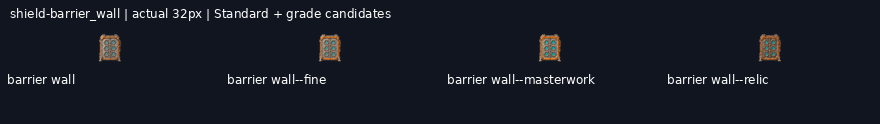
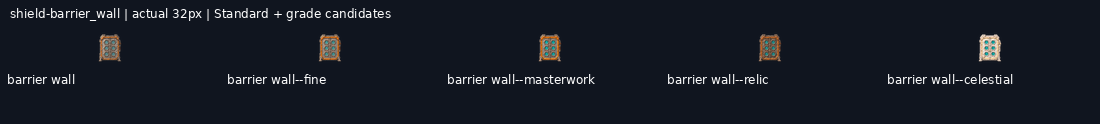
Deliver shield-barrier_wall--celestial review candidate

diff --git a/art/_archive/gear/2026-11-20-reset-continuation/HANDOFF.md b/art/_archive/gear/2026-11-20-reset-continuation/HANDOFF.md
@@ -1,13 +1,13 @@
 # Reset continuation progress
 
-Branch: `art/2026-11-20-reset-continuation`. New deliveries: 73/94.
+Branch: `art/2026-11-20-reset-continuation`. New deliveries: 74/94.
 
 Shared coordination: https://github.com/leonpentastorm/Project-Heaven-Cry/issues/3 . Read START-HERE.md before extending this queue.
 
 All new entries remain review-candidate; production_approved:false and implementation_ready:false. Exact-outline review remains pending.
 
-Ready jobs: shield-barrier_wall--celestial.
+Ready jobs: .
 
-Pending jobs: weapon-hellraiser_rotary--celestial, weapon-purifier_flamer--masterwork, weapon-purifier_flamer--relic, weapon-purifier_flamer--celestial, weapon-dock_cutter--masterwork, weapon-dock_cutter--relic, weapon-dock_cutter--celestial, weapon-broadback_sabre--relic, weapon-broadback_sabre--celestial, weapon-short_draw--fine, weapon-short_draw--masterwork, weapon-short_draw--relic, weapon-short_draw--celestial, weapon-long_draw--fine, weapon-long_draw--masterwork, weapon-long_draw--relic, weapon-long_draw--celestial, weapon-kemizuchi_side_sword--masterwork, weapon-kemizuchi_side_sword--relic, weapon-kemizuchi_side_sword--celestial, shield-barrier_wall--celestial.
+Pending jobs: weapon-hellraiser_rotary--celestial, weapon-purifier_flamer--masterwork, weapon-purifier_flamer--relic, weapon-purifier_flamer--celestial, weapon-dock_cutter--masterwork, weapon-dock_cutter--relic, weapon-dock_cutter--celestial, weapon-broadback_sabre--relic, weapon-broadback_sabre--celestial, weapon-short_draw--fine, weapon-short_draw--masterwork, weapon-short_draw--relic, weapon-short_draw--celestial, weapon-long_draw--fine, weapon-long_draw--masterwork, weapon-long_draw--relic, weapon-long_draw--celestial, weapon-kemizuchi_side_sword--masterwork, weapon-kemizuchi_side_sword--relic, weapon-kemizuchi_side_sword--celestial.
 
 Quota state: null.
